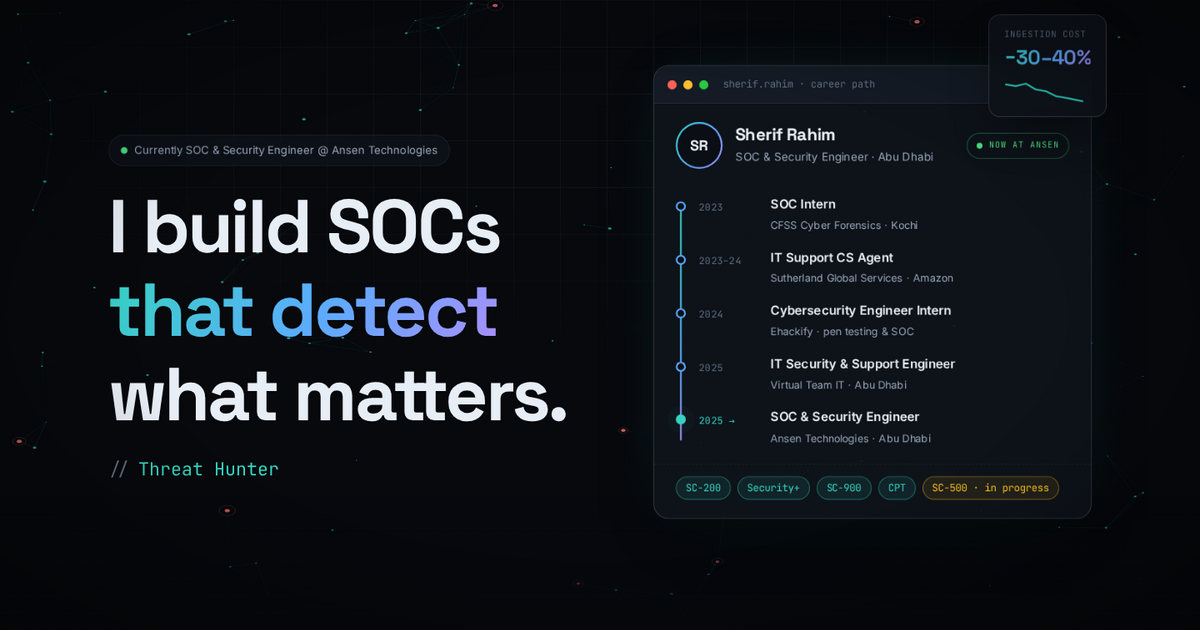
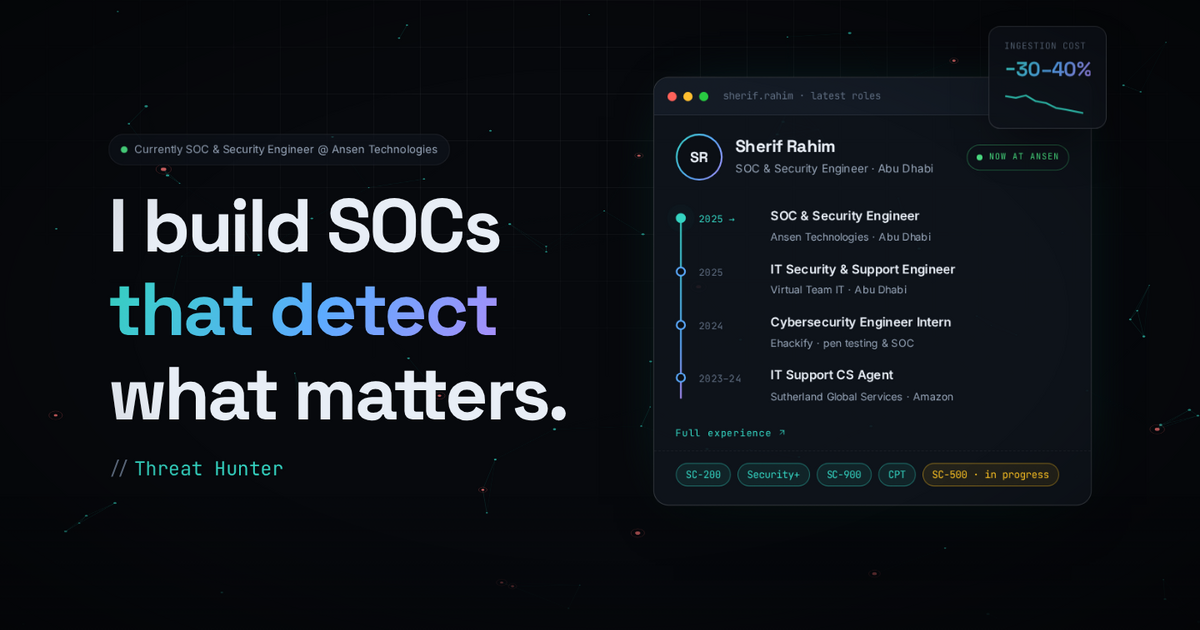
Show latest 4 roles newest-first in hero; add reveal on every page open
- Hero career card now lists only the latest 4 roles, newest on top, with a
  "Full experience" link to the complete timeline
- Repeat visits now get a short curtain-split reveal (SR mark) instead of no
  opening animation; the full title-card intro still plays once per session
  and can be replayed with ?intro
- Regenerate share image; document behaviour in README

Claude-Session: https://claude.ai/code/session_01MUCVpntZWWcym1VDcb1tbT

diff --git a/index.html b/index.html
@@ -89,6 +89,7 @@
       </div>
     </div>
   </div>
+  <div class="quick-mark" aria-hidden="true">SR</div>
   <div class="flash"></div>
   <button class="skip" id="intro-skip" type="button">Skip intro ↵</button>
 </div>
@@ -154,19 +155,19 @@
         <div class="float-card b" aria-hidden="true"><small>Ingestion cost</small><b class="grad-text">−30–40%</b>
           <svg class="spark" viewBox="0 0 96 30" fill="none" stroke="var(--accent)" stroke-width="2" stroke-linecap="round" stroke-linejoin="round"><polyline points="2,6 14,8 26,5 38,12 50,14 62,20 74,22 94,26"/></svg></div>
         <div class="terminal me" id="me">
-          <div class="term-bar"><i></i><i></i><i></i><span>sherif.rahim · career path</span></div>
+          <div class="term-bar"><i></i><i></i><i></i><span>sherif.rahim · latest roles</span></div>
           <div class="me-head">
             <div class="avatar" aria-hidden="true"><span>SR</span></div>
             <div><strong>Sherif Rahim</strong><small>SOC &amp; Security Engineer · Abu Dhabi</small></div>
             <span class="now"><i></i>Now at Ansen</span>
           </div>
-          <ol class="path" id="path" aria-label="Career path">
-              <li><time>2023</time><div><b>SOC Intern</b><small>CFSS Cyber Forensics · Kochi</small></div></li>
-              <li><time>2023–24</time><div><b>IT Support CS Agent</b><small>Sutherland Global Services · Amazon</small></div></li>
-              <li><time>2024</time><div><b>Cybersecurity Engineer Intern</b><small>Ehackify · pen testing &amp; SOC</small></div></li>
-              <li><time>2025</time><div><b>IT Security &amp; Support Engineer</b><small>Virtual Team IT · Abu Dhabi</small></div></li>
+          <ol class="path" id="path" aria-label="Latest roles, newest first">
               <li class="current"><time>2025 →</time><div><b>SOC &amp; Security Engineer</b><small>Ansen Technologies · Abu Dhabi</small></div></li>
+              <li><time>2025</time><div><b>IT Security &amp; Support Engineer</b><small>Virtual Team IT · Abu Dhabi</small></div></li>
+              <li><time>2024</time><div><b>Cybersecurity Engineer Intern</b><small>Ehackify · pen testing &amp; SOC</small></div></li>
+              <li><time>2023–24</time><div><b>IT Support CS Agent</b><small>Sutherland Global Services · Amazon</small></div></li>
           </ol>
+          <a class="path-more" href="#experience">Full experience <svg class="icon"><use href="#i-arrow"/></svg></a>
           <div class="me-certs"><span class="chip hot">SC-200</span><span class="chip hot">Security+</span><span class="chip hot">SC-900</span><span class="chip hot">CPT</span><span class="chip wip">SC-500 · in progress</span></div>
         </div>
         <div class="float-card a" aria-hidden="true"><small>Critical infra onboarded</small><b>4 days <span style="font-size:.9rem;color:var(--faint);font-weight:500">vs 10</span></b></div>

diff --git a/assets/css/styles.css b/assets/css/styles.css
@@ -925,3 +925,15 @@ code, pre, kbd, .hud, .chip { font-variant-ligatures: none; font-feature-setting
 .stage { display: flex; flex-direction: column; align-items: flex-start; justify-content: flex-start; }
 /* equal-height tabs */
 .stage strong { min-height: 2.4em; }
+
+/* Quick reveal (repeat visits) */
+#intro .quick-mark { position: absolute; inset: 0; z-index: 5; display: none; place-items: center; font-family: var(--font-display); font-weight: 700; font-size: clamp(3.4rem, 11vw, 6.5rem); letter-spacing: -0.05em; pointer-events: none; background: none; }
+#intro .quick-mark { color: transparent; background: linear-gradient(120deg, #34d3c0, #5aa9ff 55%, #a78bfa); -webkit-background-clip: text; background-clip: text; }
+#intro.quick .quick-mark { display: grid; animation: qm 0.7s cubic-bezier(0.16, 1, 0.3, 1) both; }
+@keyframes qm { 0% { opacity: 0; transform: scale(1.6); filter: blur(14px); } 45% { opacity: 1; } 100% { opacity: 1; transform: none; filter: none; } }
+#intro.quick .bar, #intro.quick .intro-stage, #intro.quick .skip { display: none; }
+#intro.quick.out .quick-mark { animation: none; opacity: 0; transition: opacity 0.22s; }
+.path-more { display: inline-flex; align-items: center; gap: 7px; margin: 2px 26px 6px; font-family: var(--font-mono); font-size: 0.72rem; letter-spacing: 0.06em; color: var(--accent); }
+.path-more .icon { width: 0.95em; height: 0.95em; transition: transform 0.3s var(--ease); }
+.path-more:hover .icon { transform: translate(2px, -2px); }
+@media (max-width: 640px) { .path-more { margin-left: 18px; } }

diff --git a/assets/js/main.js b/assets/js/main.js
@@ -67,9 +67,19 @@
   var introTimers = [];
   function later(fn, ms) { var t = setTimeout(fn, ms); introTimers.push(t); return t; }
 
+  /* Repeat visits: a short curtain-split reveal so every page open has an opening shot */
+  function quickReveal() {
+    intro.classList.add("quick");
+    root.style.overflow = "hidden";
+    later(function () { intro.classList.add("out"); later(startHero, 320); }, 700);
+    setTimeout(function () { root.style.overflow = ""; if (intro && intro.parentNode) intro.remove(); }, 1750);
+  }
+
   function runIntro() {
     if (!intro) { startHero(); return; }
-    if (reduced || store.get("introSeen")) { intro.remove(); startHero(); return; }
+    if (reduced) { intro.remove(); startHero(); return; }
+    var forceFull = /[?&]intro(?:=|&|$)/.test(location.search);
+    if (store.get("introSeen") && !forceFull) { quickReveal(); return; }
     store.set("introSeen", "1");
     root.style.overflow = "hidden";
 

diff --git a/README.md b/README.md
@@ -33,7 +33,7 @@ assets/
 
 | Where | Technique |
 | --- | --- |
-| Page load | Letterboxed title-card intro: boot log → white-flash **jump cut** → tracking-in title → **curtain split**. Plays once per session; `Enter`/`Esc`/click skips it. |
+| Page load | Letterboxed title-card intro: boot log → white-flash **jump cut** → tracking-in title → **curtain split**. Full version plays once per browser session (`Enter`/`Esc`/click skips it); repeat loads get a short **curtain-split** reveal instead, so every page open has an opening shot. Add `?intro` to the URL to replay the full intro. |
 | Hero | Camera **pull-back** on entry, **glitch cut** on the headline, role titles that **hard-cut** with a punch-in, **dolly-out** as you scroll away. |
 | The Reel | Pinned section scrubbed by scroll. Four shots, four cuts: **flash cut**, **zoom punch**, **whip-pan**, **iris**. Scroll-driven letterbox bars frame it. |
 | Experience | "Scene" slates, **wipe** reveals, a timeline that draws as you scroll. |
